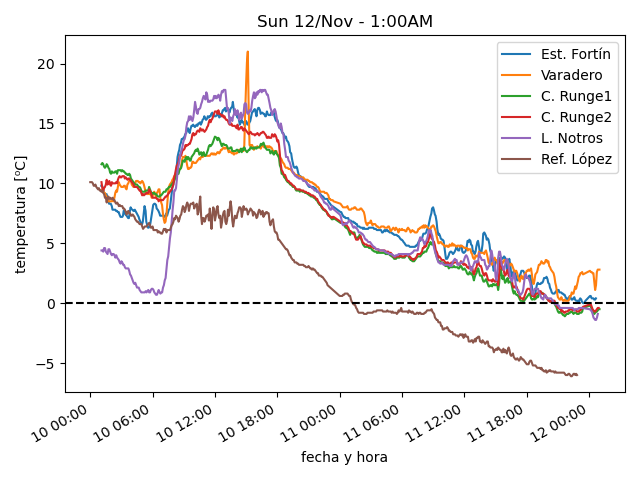
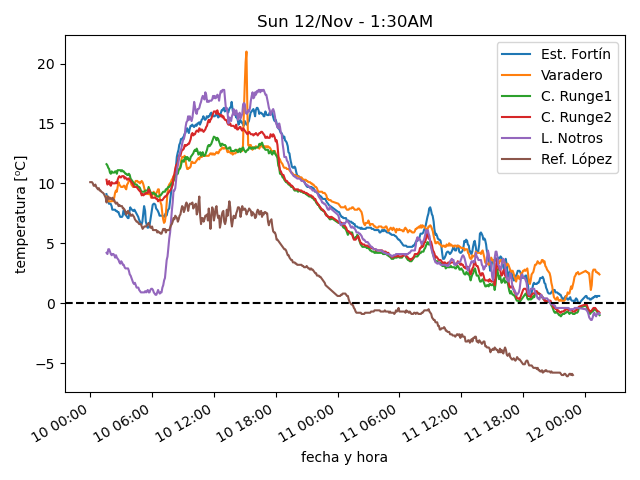
actualiza datos

diff --git a/estaciones/estacion1.html b/estaciones/estacion1.html
@@ -18,32 +18,32 @@
     </tr>
     <tr>
      <td class="stats_data">
-      12:38AM
+      1:23AM
      </td>
     </tr>
     <tr>
      <td class="stats_data">
-      0.4⁰C
+      0.6⁰C
      </td>
     </tr>
     <tr>
      <td class="stats_data">
-      -3.5⁰C
+      -4.2⁰C
      </td>
     </tr>
     <tr>
      <td class="stats_data">
-      75.0%
+      70.5%
      </td>
     </tr>
     <tr>
      <td class="stats_data">
-      1016.26hPa
+      1016.59hPa
      </td>
     </tr>
     <tr>
      <td class="stats_data">
-      19.5/31.4 km/hr WSW
+      12.7/29.8 km/hr W
      </td>
     </tr>
     <tr>

diff --git a/estaciones/estacion2.html b/estaciones/estacion2.html
@@ -18,32 +18,32 @@
     </tr>
     <tr>
      <td class="stats_data">
-      12:59AM
+      1:24AM
      </td>
     </tr>
     <tr>
      <td class="stats_data">
-      2.8⁰C
+      2.4⁰C
      </td>
     </tr>
     <tr>
      <td class="stats_data">
-      0.7⁰C
+      0.3⁰C
      </td>
     </tr>
     <tr>
      <td class="stats_data">
-      86.1%
+      86.6%
      </td>
     </tr>
     <tr>
      <td class="stats_data">
-      1020.62hPa
+      1020.83hPa
      </td>
     </tr>
     <tr>
      <td class="stats_data">
-      37.5/45.7 km/hr NW
+      27.5/35.0 km/hr NW
      </td>
     </tr>
     <tr>

diff --git a/estaciones/estacion4.html b/estaciones/estacion4.html
@@ -18,32 +18,32 @@
     </tr>
     <tr>
      <td class="stats_data">
-      12:54AM
+      1:24AM
      </td>
     </tr>
     <tr>
      <td class="stats_data">
-      -0.4⁰C
+      -0.8⁰C
      </td>
     </tr>
     <tr>
      <td class="stats_data">
-      -1.7⁰C
+      -1.5⁰C
      </td>
     </tr>
     <tr>
      <td class="stats_data">
-      90.3%
+      95.4%
      </td>
     </tr>
     <tr>
      <td class="stats_data">
-      1014.12hPa
+      1014.43hPa
      </td>
     </tr>
     <tr>
      <td class="stats_data">
-      1.7/3.3 km/hr SW
+      1.2/2.3 km/hr SW
      </td>
     </tr>
     <tr>

diff --git a/estaciones/estacion3.html b/estaciones/estacion3.html
@@ -18,12 +18,12 @@
     </tr>
     <tr>
      <td class="stats_data">
-      12:59AM
+      1:24AM
      </td>
     </tr>
     <tr>
      <td class="stats_data">
-      -0.5⁰C
+      -1.0⁰C
      </td>
     </tr>
     <tr>
@@ -33,17 +33,17 @@
     </tr>
     <tr>
      <td class="stats_data">
-      93.6%
+      96.0%
      </td>
     </tr>
     <tr>
      <td class="stats_data">
-      1005.52hPa
+      1005.72hPa
      </td>
     </tr>
     <tr>
      <td class="stats_data">
-      4.8/6.9 km/hr SW
+      5.9/8.7 km/hr SW
      </td>
     </tr>
     <tr>

diff --git a/estaciones/estacion5.html b/estaciones/estacion5.html
@@ -18,7 +18,7 @@
     </tr>
     <tr>
      <td class="stats_data">
-      12:50AM
+      1:25AM
      </td>
     </tr>
     <tr>
@@ -28,17 +28,17 @@
     </tr>
     <tr>
      <td class="stats_data">
-      -2.4⁰C
+      -2.2⁰C
      </td>
     </tr>
     <tr>
      <td class="stats_data">
-      90.0%
+      91.0%
      </td>
     </tr>
     <tr>
      <td class="stats_data">
-      1020.18hPa
+      1020.56hPa
      </td>
     </tr>
     <tr>
